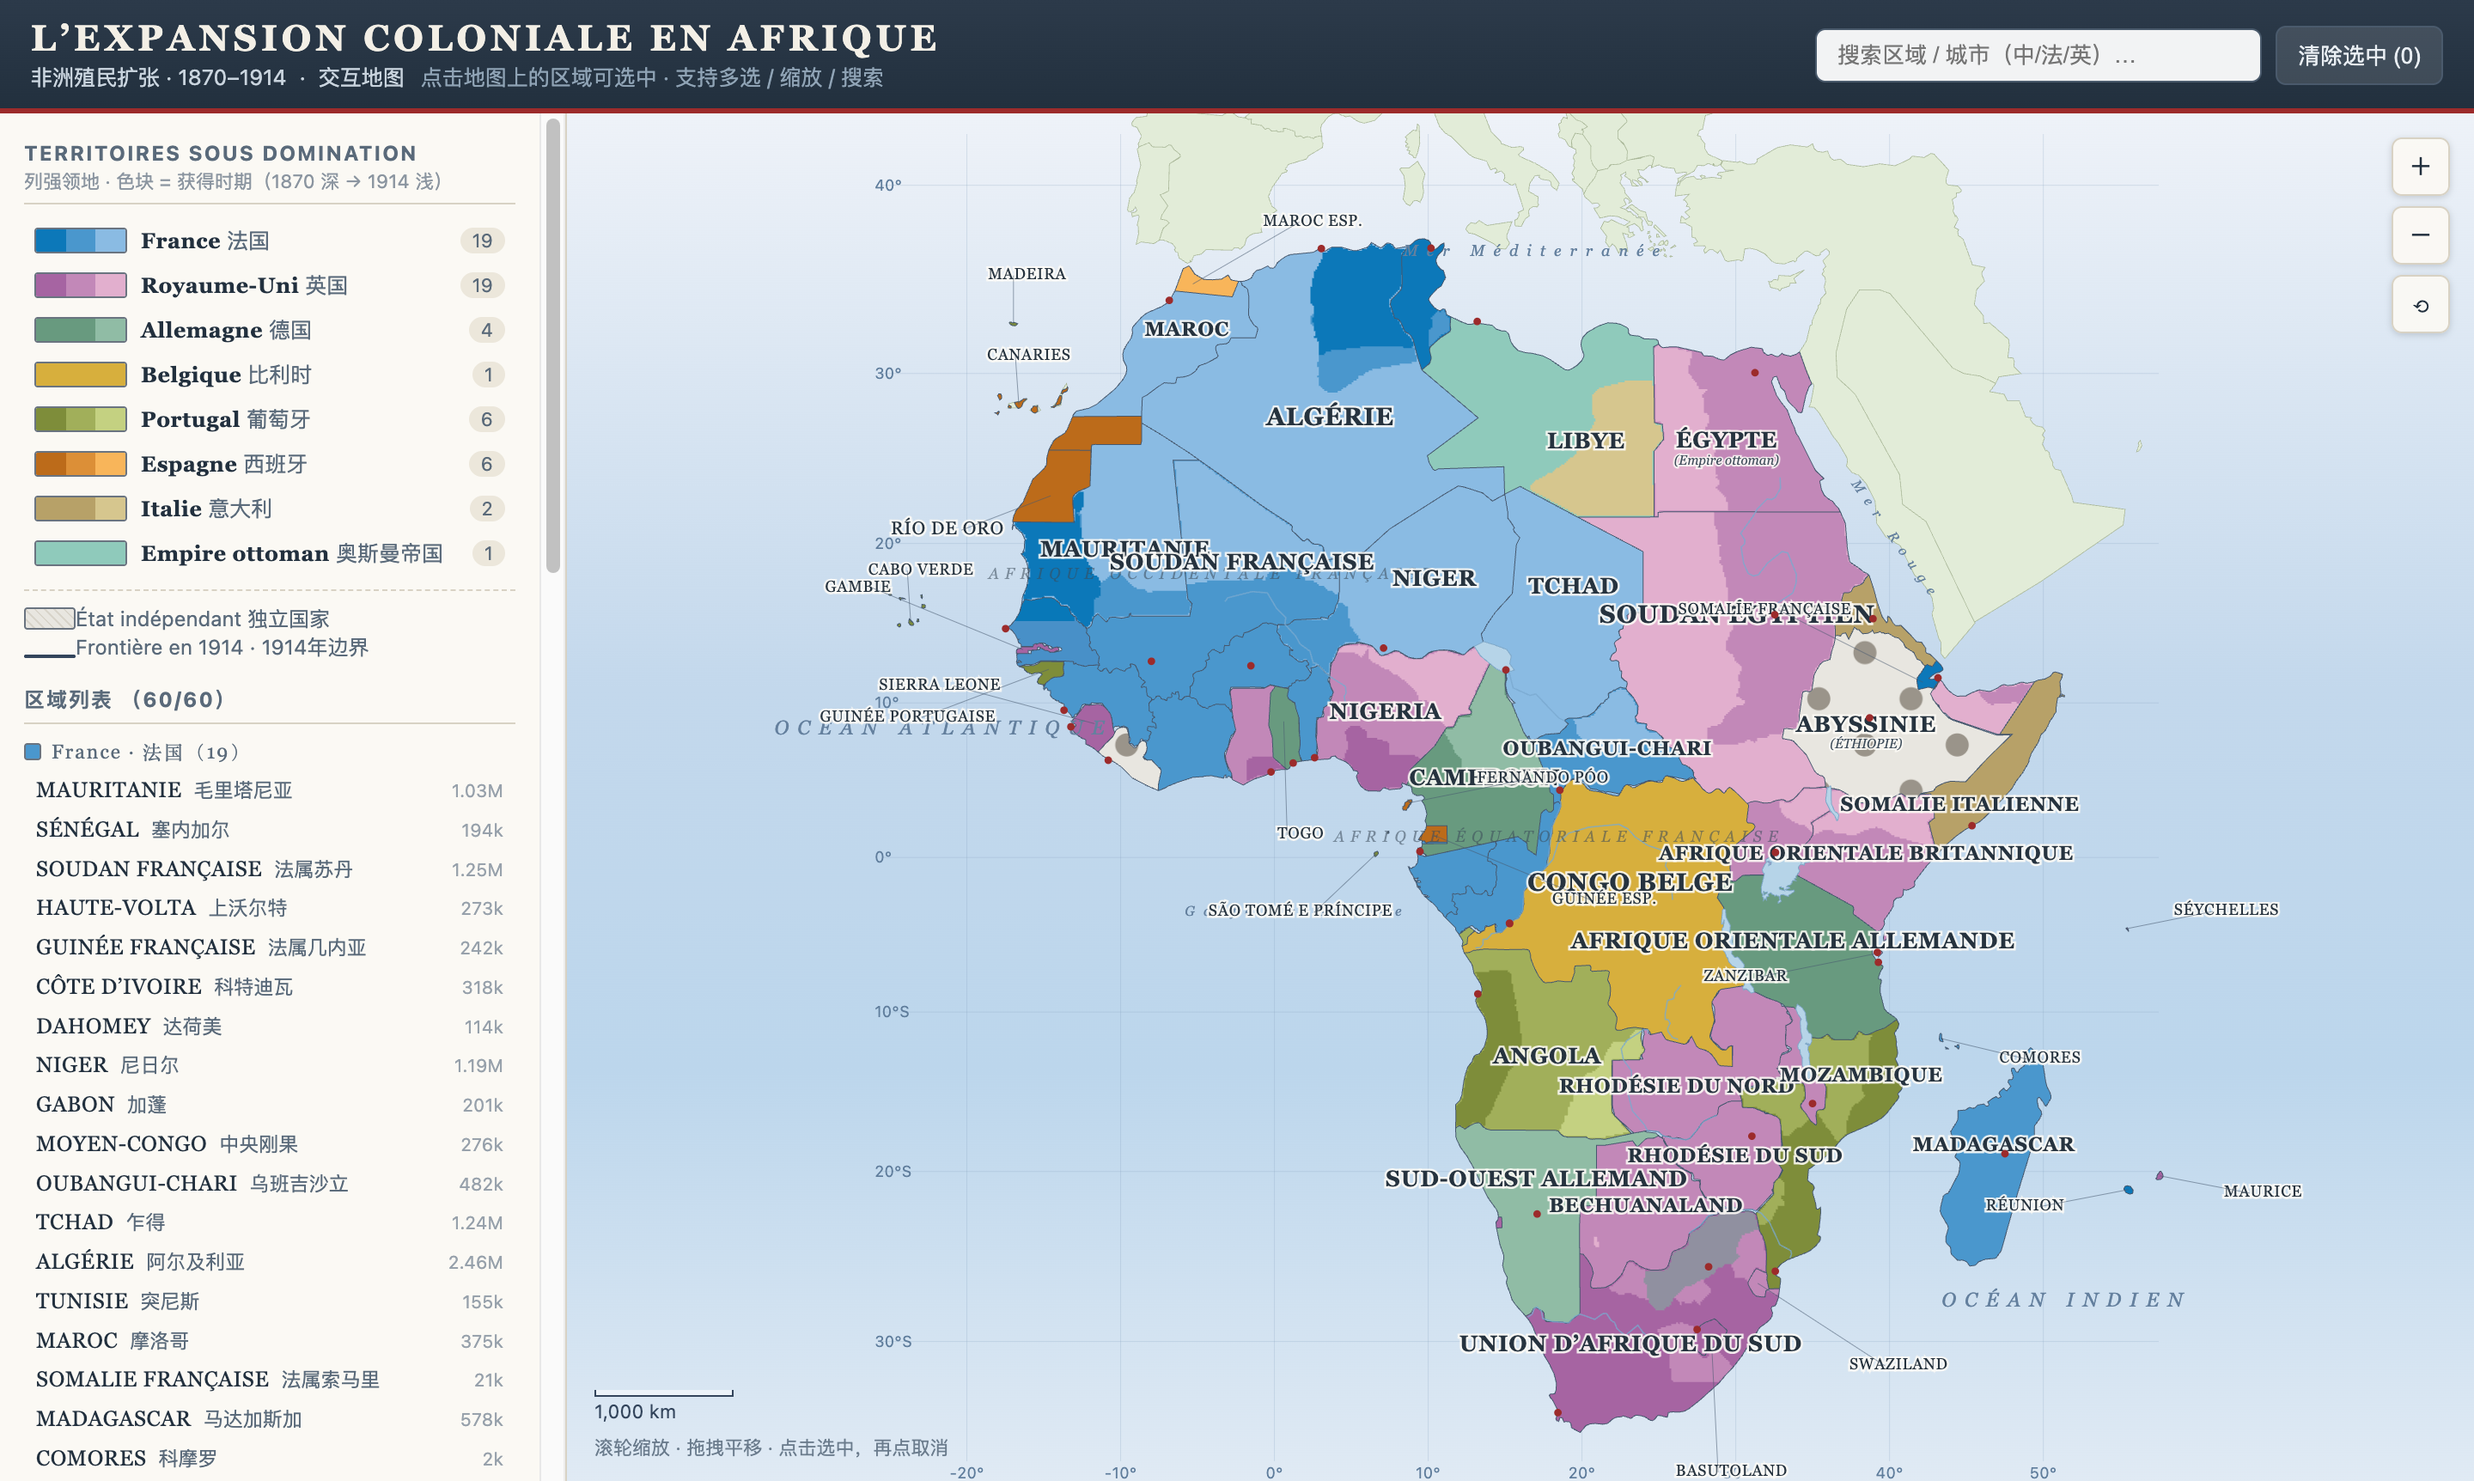
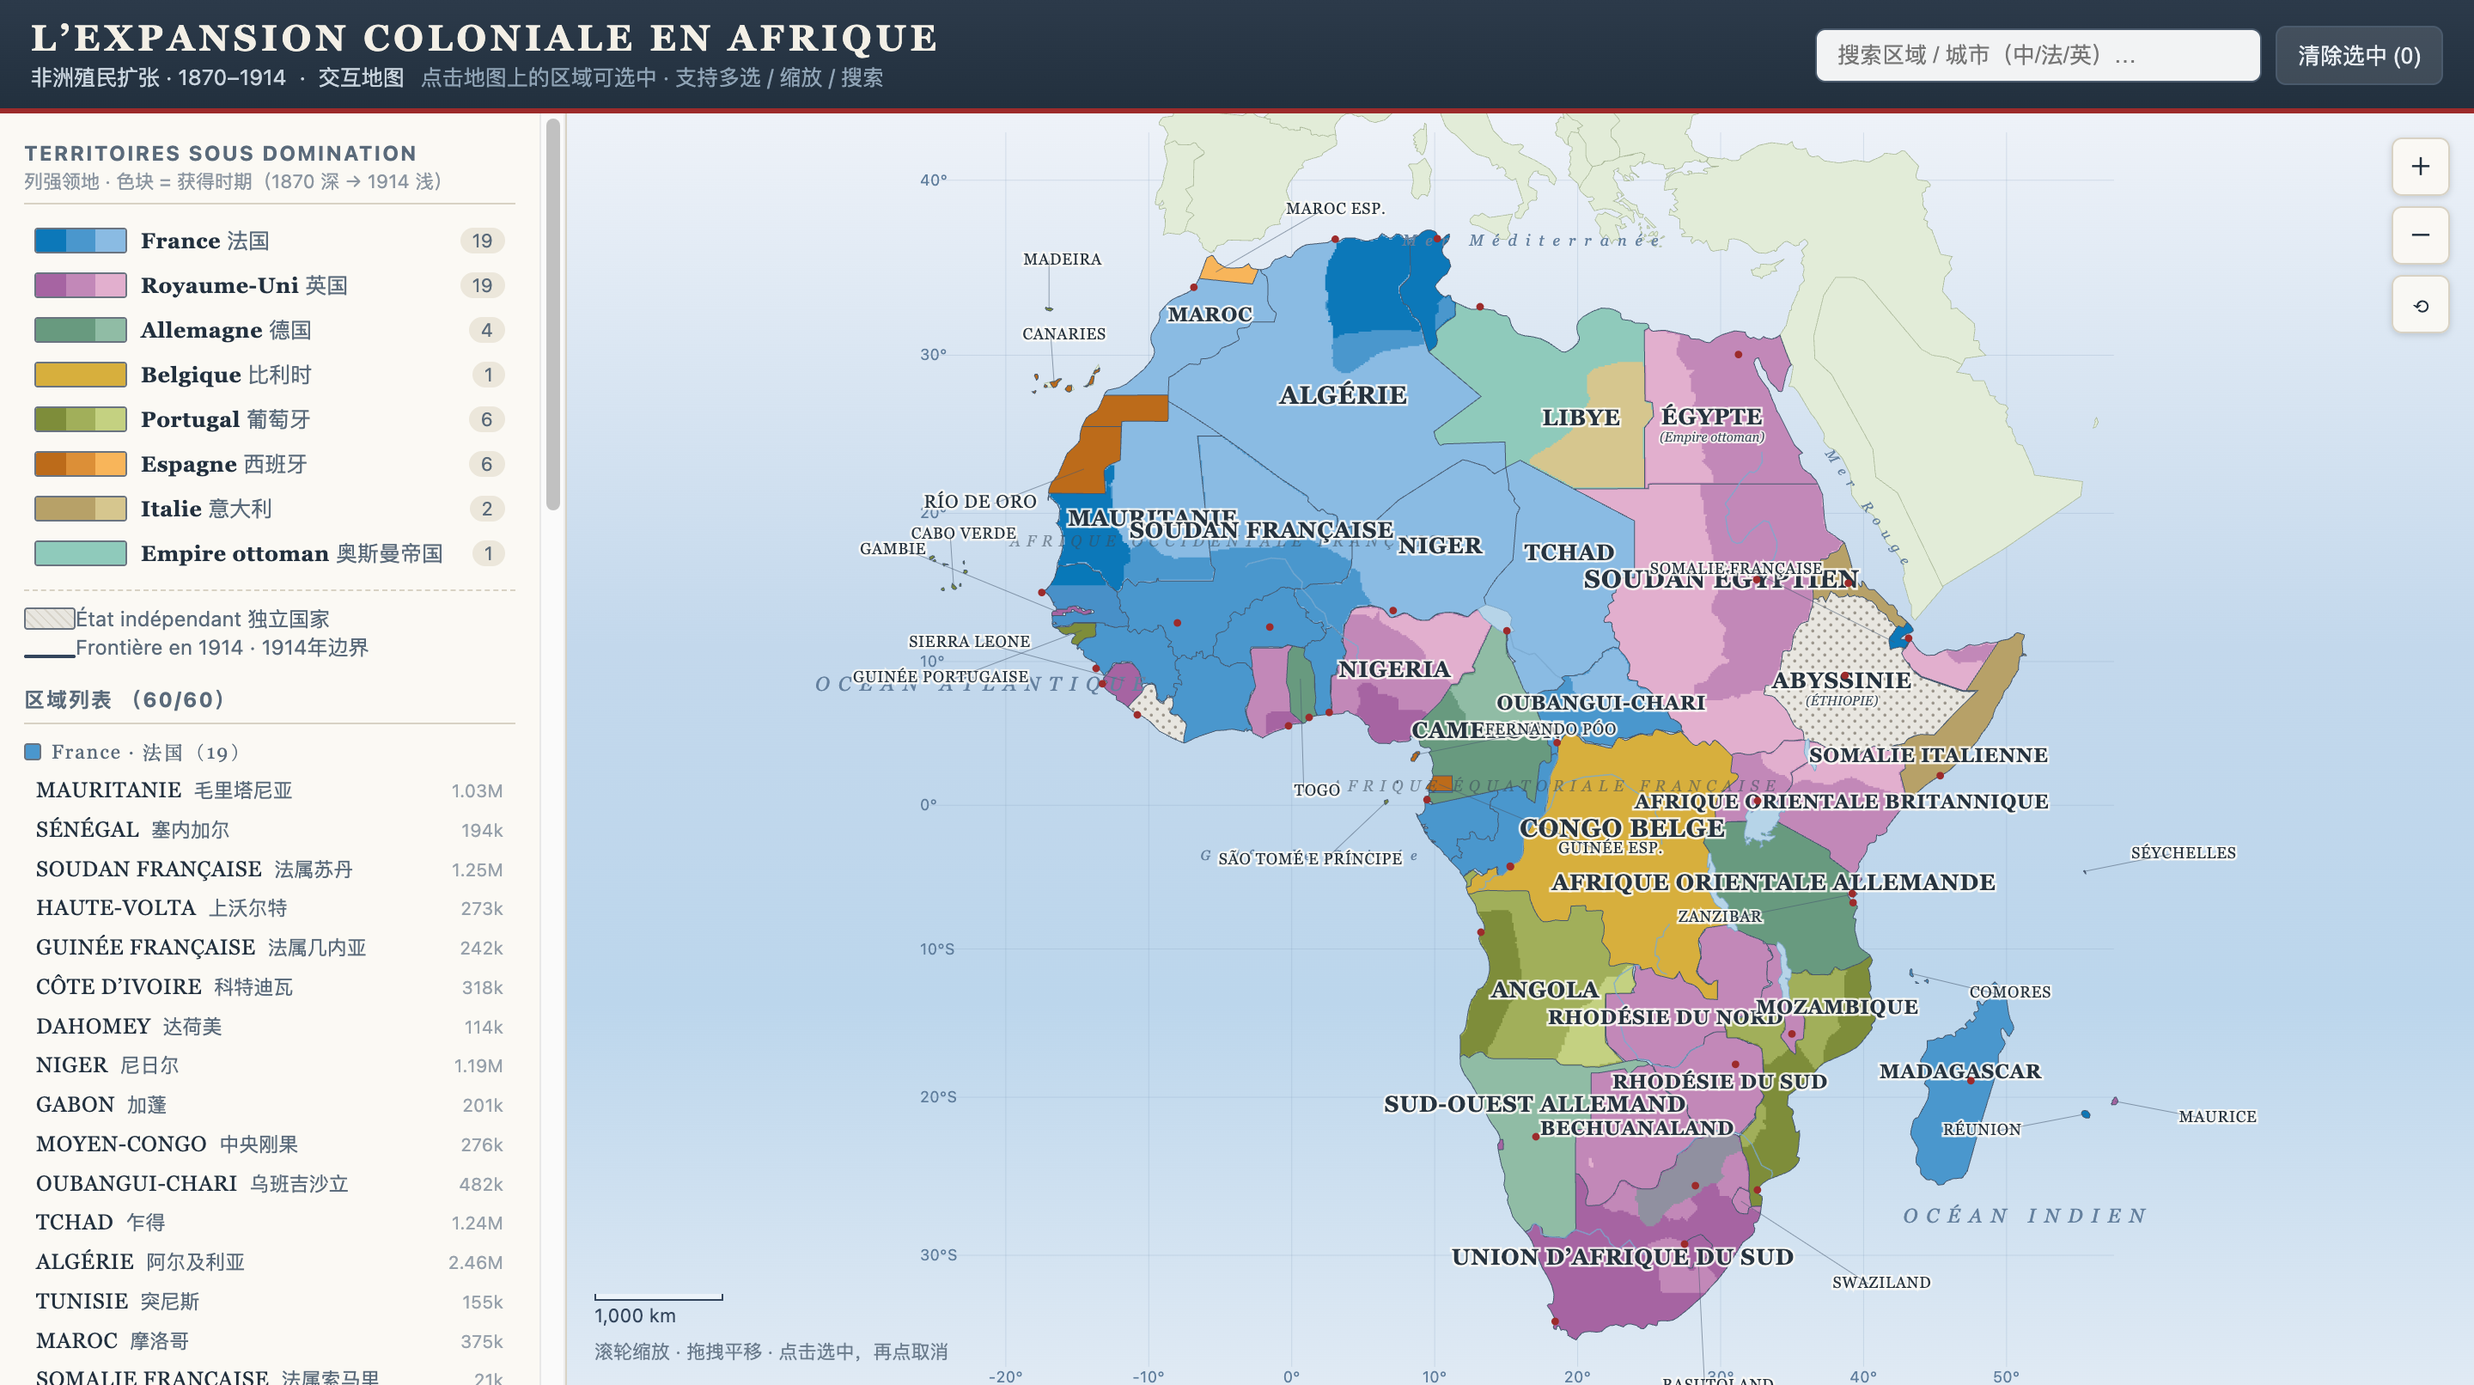
修复独立国家点纹被视图缩放放大的问题
indepStipple 图案定义在用户坐标系内，随 viewport 缩放一起放大，
在默认视图下呈现为几个大圆点。现于 applyView 中按当前缩放设置
patternTransform 反向补偿，使点纹保持固定屏幕尺寸（约 0.9px 点、
7px 间距），任意缩放下均为细密点纹，与原图一致。

diff --git a/app.js b/app.js
@@ -239,6 +239,9 @@ function clampView() {
 function applyView() {
   clampView();
   const sc = view.S * view.k;
+  // keep the independent-state stipple at constant SCREEN size (tile ~7px, dot ~0.9px)
+  const stipple = document.getElementById('indepStipple');
+  if (stipple) stipple.setAttribute('patternTransform', `scale(${(7 / (6 * sc)).toFixed(4)})`);
   // screen = W/2 + (u + tx - U_W/2) * sc  =>  translate = W/2 + (tx - U_W/2) * sc
   viewport.setAttribute('transform',
     `translate(${(view.W / 2 + (view.tx - U_W / 2) * sc).toFixed(2)},${(view.H / 2 + (view.ty - U_H / 2) * sc).toFixed(2)}) scale(${sc.toFixed(4)})`);
